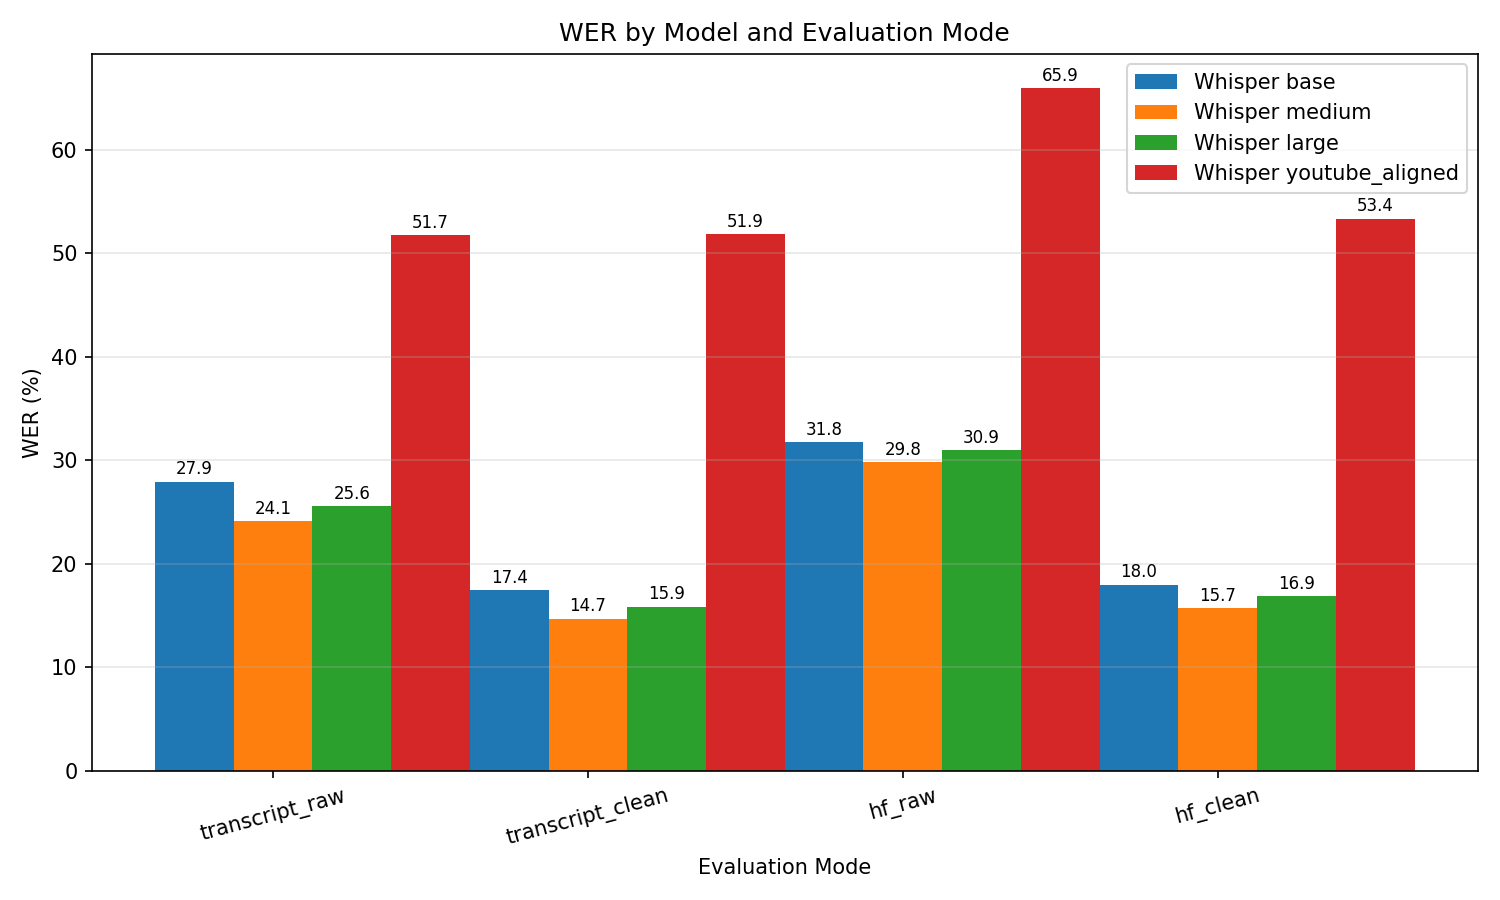
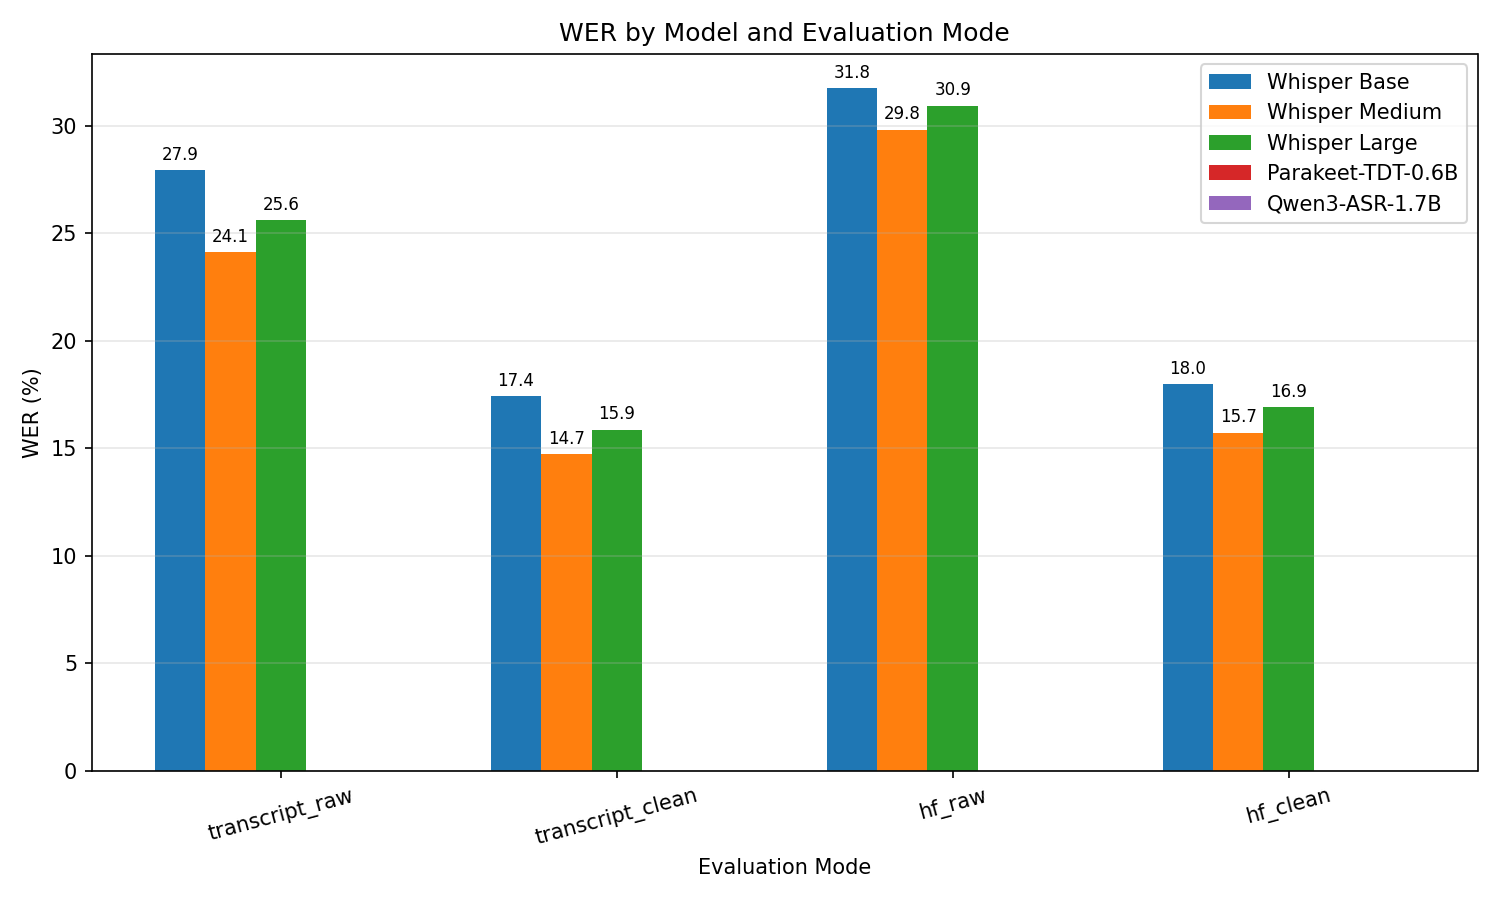
Fix bugs, regenerate results without youtube_aligned
Critical fixes:
- utils/io_helpers.py: HF_CACHE now reads HF_DATASETS_CACHE env var first
  (was hardcoded to ~/hf_cache, ignoring NSCC PBS export)
- task4_parakeet/wer_parakeet.py: fix NeMo transcribe() return type (str or
  Hypothesis); move import to top; log suppression after import; O(1) ckpt
  lookup via dict; save all_rows not checkpoint_rows to checkpoint
- task5_qwen3_asr/wer_qwen3.py: add max_new_tokens=512; device_map="auto"
  for GPU; separate CPU path without bfloat16; O(1) ckpt lookup; add
  language="English" for determinism; handle both return types
- analysis/compare_all.py: fix hardcoded "Whisper {model}" in best-model
  report; fix "raw Whisper output" label to "raw ASR output"
- run_pipeline.pbs: add conda activate switches per model env; add HF_HOME
  export so parakeet/qwen3 model downloads go to scratch not home

Regenerated results:
- youtube_aligned rows removed from all summary/analysis CSVs
- parakeet/qwen3 show as NaN pending NSCC stage1 runs
- All charts regenerated for 5-model layout (base/medium/large only for now)

diff --git a/task4_parakeet/wer_parakeet.py b/task4_parakeet/wer_parakeet.py
@@ -14,14 +14,17 @@ import warnings
 import wave
 
 import librosa
+import nemo.collections.asr as nemo_asr
 import numpy as np
 import pandas as pd
 import torch
 from tqdm import tqdm
 
-# Suppress NeMo verbose logging
+# Suppress NeMo verbose logging (must be after nemo import so handlers exist)
 logging.getLogger("nemo_logger").setLevel(logging.WARNING)
 logging.getLogger("nemo").setLevel(logging.WARNING)
+logging.getLogger("lightning").setLevel(logging.WARNING)
+logging.getLogger("pytorch_lightning").setLevel(logging.WARNING)
 warnings.filterwarnings("ignore")
 
 sys.path.insert(0, os.path.join(os.path.dirname(__file__), ".."))
@@ -63,7 +66,11 @@ def transcribe_sample_parakeet(model, sample: dict) -> str:
 
     try:
         output = model.transcribe([tmp_path])
-        return output[0].text.strip()
+        # NeMo returns List[str] (return_hypotheses=False, default) or
+        # List[Hypothesis] (return_hypotheses=True). Handle both.
+        result = output[0]
+        text = result.text if hasattr(result, "text") else str(result)
+        return text.strip()
     except Exception as e:
         sample_id = sample.get("ID", "?")
         print(f"  [WARN] Failed to transcribe {sample_id}: {e}")
@@ -72,11 +79,8 @@ def transcribe_sample_parakeet(model, sample: dict) -> str:
         os.unlink(tmp_path)
 
 
-import nemo.collections.asr as nemo_asr
-
-print(f"Loading {MODEL_ID} ...")
 device = "cuda" if torch.cuda.is_available() else "cpu"
-print(f"Device: {device}")
+print(f"Loading {MODEL_ID} on device: {device} ...")
 model = nemo_asr.models.ASRModel.from_pretrained(MODEL_ID)
 if device == "cuda":
     model = model.cuda()
@@ -87,12 +91,14 @@ ds = load_dataset_test()
 
 checkpoint_path = os.path.join(results_dir(), f"wer_{MODEL_NAME}_partial.csv")
 completed_ids: set[str] = set()
-checkpoint_rows: list[dict] = []
+ckpt_map: dict[str, dict] = {}
 
 if os.path.exists(checkpoint_path):
     df_partial = pd.read_csv(checkpoint_path)
-    completed_ids = set(df_partial["ID"].astype(str).tolist())
-    checkpoint_rows = df_partial.to_dict("records")
+    for r in df_partial.to_dict("records"):
+        sid = str(r["ID"])
+        completed_ids.add(sid)
+        ckpt_map[sid] = r
     print(f"  Resuming from checkpoint: {len(completed_ids)} samples already done\n")
 
 all_rows: list[dict] = []
@@ -104,15 +110,12 @@ for sample in tqdm(ds, desc="test (transcribing)"):
     if not transcript:
         continue
 
-    sample_id = sample.get("ID", "")
+    sample_id = str(sample.get("ID", ""))
 
-    hyp_raw = None
-    if str(sample_id) in completed_ids:
-        ckpt_row = next((r for r in checkpoint_rows if str(r["ID"]) == str(sample_id)), None)
-        if ckpt_row is not None:
-            hyp_raw = str(ckpt_row.get("hypothesis_raw") or "")
-
-    if hyp_raw is None:
+    if sample_id in completed_ids:
+        ckpt_row = ckpt_map.get(sample_id)
+        hyp_raw = str(ckpt_row.get("hypothesis_raw") or "") if ckpt_row else ""
+    else:
         hyp_raw = transcribe_sample_parakeet(model, sample)
 
     row = {
@@ -131,10 +134,9 @@ for sample in tqdm(ds, desc="test (transcribing)"):
     }
 
     all_rows.append(row)
-    checkpoint_rows.append(row)
 
     if len(all_rows) % 200 == 0:
-        save_checkpoint(checkpoint_rows, MODEL_NAME)
+        save_checkpoint(all_rows, MODEL_NAME)
         print(f"  [checkpoint] {len(all_rows)} samples saved")
 
 out_path = os.path.join(stage1_raw_dir(), f"wer_{MODEL_NAME}_raw.csv")

diff --git a/task5_qwen3_asr/wer_qwen3.py b/task5_qwen3_asr/wer_qwen3.py
@@ -16,6 +16,7 @@ import librosa
 import numpy as np
 import pandas as pd
 import torch
+from qwen_asr import Qwen3ASRModel
 from tqdm import tqdm
 
 warnings.filterwarnings("ignore")
@@ -58,8 +59,11 @@ def transcribe_sample_qwen3(model, sample: dict) -> str:
             wf.writeframes(audio_int16.tobytes())
 
     try:
-        results = model.transcribe(audio=tmp_path)
-        return results[0].text.strip()
+        # language="English" for determinism; model auto-detects otherwise
+        results = model.transcribe(audio=tmp_path, language="English")
+        result = results[0]
+        text = result.text if hasattr(result, "text") else str(result)
+        return text.strip()
     except Exception as e:
         sample_id = sample.get("ID", "?")
         print(f"  [WARN] Failed to transcribe {sample_id}: {e}")
@@ -68,27 +72,37 @@ def transcribe_sample_qwen3(model, sample: dict) -> str:
         os.unlink(tmp_path)
 
 
-from qwen_asr import Qwen3ASRModel
-
 device = "cuda" if torch.cuda.is_available() else "cpu"
 print(f"Loading {MODEL_ID} on device: {device} ...")
-model = Qwen3ASRModel.from_pretrained(
-    MODEL_ID,
-    dtype=torch.bfloat16,
-    device_map=device,
-)
+
+# bfloat16 on GPU for efficiency; float32 on CPU for compatibility
+if device == "cuda":
+    model = Qwen3ASRModel.from_pretrained(
+        MODEL_ID,
+        dtype=torch.bfloat16,
+        device_map="auto",
+        max_new_tokens=512,
+    )
+else:
+    model = Qwen3ASRModel.from_pretrained(
+        MODEL_ID,
+        device_map="cpu",
+        max_new_tokens=512,
+    )
 print("Model loaded.\n")
 
 ds = load_dataset_test()
 
 checkpoint_path = os.path.join(results_dir(), f"wer_{MODEL_NAME}_partial.csv")
 completed_ids: set[str] = set()
-checkpoint_rows: list[dict] = []
+ckpt_map: dict[str, dict] = {}
 
 if os.path.exists(checkpoint_path):
     df_partial = pd.read_csv(checkpoint_path)
-    completed_ids = set(df_partial["ID"].astype(str).tolist())
-    checkpoint_rows = df_partial.to_dict("records")
+    for r in df_partial.to_dict("records"):
+        sid = str(r["ID"])
+        completed_ids.add(sid)
+        ckpt_map[sid] = r
     print(f"  Resuming from checkpoint: {len(completed_ids)} samples already done\n")
 
 all_rows: list[dict] = []
@@ -100,15 +114,12 @@ for sample in tqdm(ds, desc="test (transcribing)"):
     if not transcript:
         continue
 
-    sample_id = sample.get("ID", "")
+    sample_id = str(sample.get("ID", ""))
 
-    hyp_raw = None
-    if str(sample_id) in completed_ids:
-        ckpt_row = next((r for r in checkpoint_rows if str(r["ID"]) == str(sample_id)), None)
-        if ckpt_row is not None:
-            hyp_raw = str(ckpt_row.get("hypothesis_raw") or "")
-
-    if hyp_raw is None:
+    if sample_id in completed_ids:
+        ckpt_row = ckpt_map.get(sample_id)
+        hyp_raw = str(ckpt_row.get("hypothesis_raw") or "") if ckpt_row else ""
+    else:
         hyp_raw = transcribe_sample_qwen3(model, sample)
 
     row = {
@@ -127,10 +138,9 @@ for sample in tqdm(ds, desc="test (transcribing)"):
     }
 
     all_rows.append(row)
-    checkpoint_rows.append(row)
 
     if len(all_rows) % 200 == 0:
-        save_checkpoint(checkpoint_rows, MODEL_NAME)
+        save_checkpoint(all_rows, MODEL_NAME)
         print(f"  [checkpoint] {len(all_rows)} samples saved")
 
 out_path = os.path.join(stage1_raw_dir(), f"wer_{MODEL_NAME}_raw.csv")

diff --git a/analysis/compare_all.py b/analysis/compare_all.py
@@ -314,8 +314,8 @@ report_lines = [
     "",
     "- `reference_raw`: original Transcript before normalization (for manual verification)",
     "- `reference`: text used for WER after normalization",
-    "- `hypothesis_raw`: raw Whisper output before normalization",
-    "- `hypothesis`: Whisper output after normalization",
+    "- `hypothesis_raw`: raw ASR output before normalization",
+    "- `hypothesis`: ASR output after normalization",
     "",
 ]
 
@@ -326,7 +326,7 @@ for mode in MODES:
     if valid.empty:
         continue
     best = valid.loc[valid[mode].idxmin()]
-    report_lines.append(f"- **{mode}**: Whisper {best['model']} ({best[mode]:.2f}%)")
+    report_lines.append(f"- **{mode}**: {MODEL_DISPLAY.get(best['model'], best['model'])} ({best[mode]:.2f}%)")
 report_lines.append("")
 
 report_path = os.path.join(ANALYSIS_DIR, "summary_report.md")

diff --git a/utils/io_helpers.py b/utils/io_helpers.py
@@ -5,7 +5,10 @@ import os
 import pandas as pd
 from datasets import load_dataset
 
-HF_CACHE = os.path.join(os.path.expanduser("~"), "hf_cache")
+HF_CACHE = os.environ.get(
+    "HF_DATASETS_CACHE",
+    os.path.join(os.path.expanduser("~"), "hf_cache"),
+)
 os.makedirs(HF_CACHE, exist_ok=True)
 os.environ.setdefault("HF_DATASETS_CACHE", HF_CACHE)
 

diff --git a/results/analysis/summary_report.md b/results/analysis/summary_report.md
@@ -7,7 +7,8 @@
 | base | 27.95 | 17.44 | 31.76 | 18.0 |
 | medium | 24.14 | 14.72 | 29.83 | 15.73 |
 | large | 25.62 | 15.88 | 30.95 | 16.91 |
-| youtube_aligned | 51.72 | 51.88 | 65.94 | 53.35 |
+| parakeet | N/A | N/A | N/A | N/A |
+| qwen3 | N/A | N/A | N/A | N/A |
 
 ## Evaluation Modes
 
@@ -34,12 +35,12 @@ Each result CSV contains:
 
 - `reference_raw`: original Transcript before normalization (for manual verification)
 - `reference`: text used for WER after normalization
-- `hypothesis_raw`: raw Whisper output before normalization
-- `hypothesis`: Whisper output after normalization
+- `hypothesis_raw`: raw ASR output before normalization
+- `hypothesis`: ASR output after normalization
 
 ## Best Model per Mode
 
-- **transcript_raw**: Whisper medium (24.14%)
-- **transcript_clean**: Whisper medium (14.72%)
-- **hf_raw**: Whisper medium (29.83%)
-- **hf_clean**: Whisper medium (15.73%)
+- **transcript_raw**: Whisper Medium (24.14%)
+- **transcript_clean**: Whisper Medium (14.72%)
+- **hf_raw**: Whisper Medium (29.83%)
+- **hf_clean**: Whisper Medium (15.73%)

diff --git a/results/stage2_processed/wer_summary_all_models.md b/results/stage2_processed/wer_summary_all_models.md
@@ -7,7 +7,6 @@
 | base | 27.95 | 17.44 | 31.76 | 18.0 |
 | large | 25.62 | 15.88 | 30.95 | 16.91 |
 | medium | 24.14 | 14.72 | 29.83 | 15.73 |
-| youtube_aligned | 51.72 | 51.88 | 65.94 | 53.35 |
 
 ## Mode Descriptions
 
